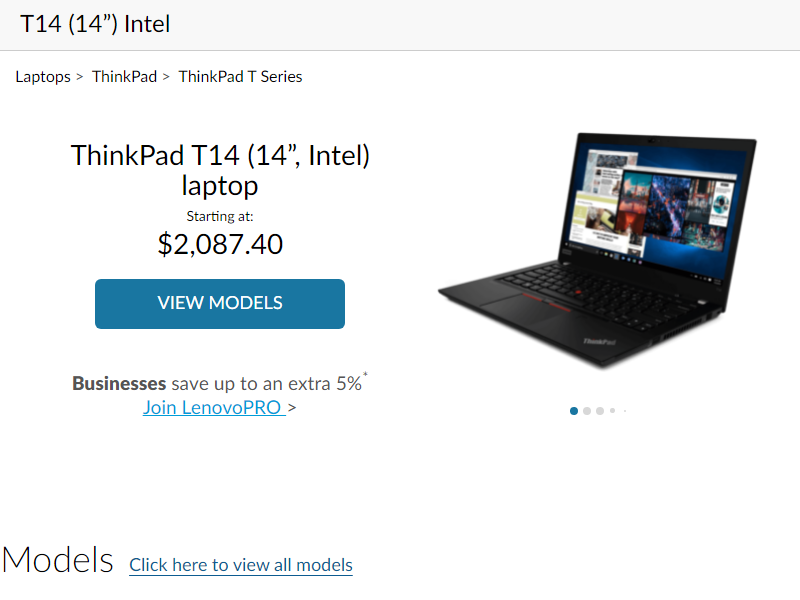
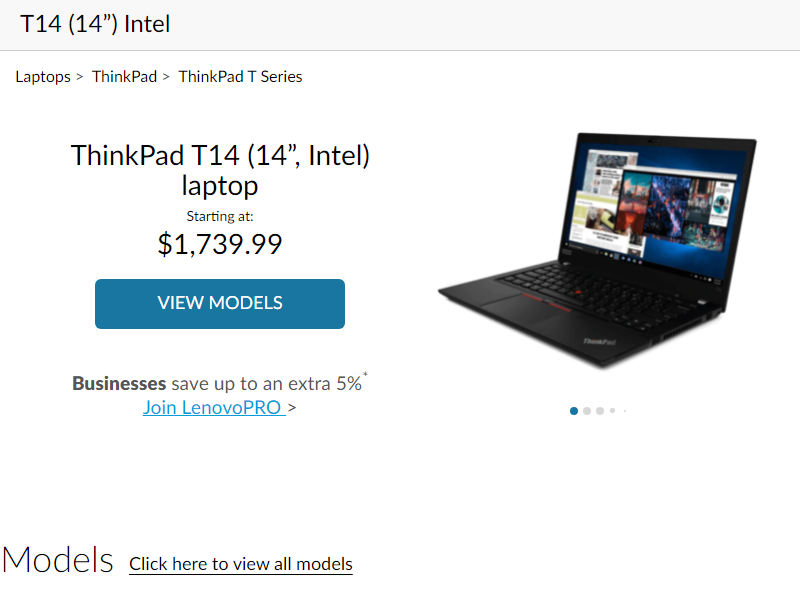
enhanced cron

Changed region(s): [[0.1562, 0.93, 0.4375, 0.96], [0.2188, 0.39, 0.375, 0.42]]

diff --git a/index.js b/index.js
@@ -35,22 +35,115 @@ let value2;
 async function puppet () {
     const browser = await puppeteer.launch();
     const page = await browser.newPage();
-    //await page.goto('https://www.walmart.ca/en/ip/mrnoodles-vegetable-flavoured-instant-noodles/6000153706380');
-    //await page.goto('https://www.instacart.ca/');
-    //await page.type('input[name="nextgen-authenticate.all.postal_code"]', 'N2L3B8') ;
 
-    //await page.click('button[data-var="loginBtn"]');
-    //await page.click('[name="button"]')
-    //document.querySelector("#root > div > div.css-l6ct9h > div.css-1wfm2tp > div.css-8atqhb > form > p > span > button")
-    
-    //let form = await page.$('#root > div > div.css-l6ct9h > div.css-1wfm2tp > div.css-8atqhb > form > p > span > button');
-        // await page.evaluate(() => {
-        //    document.querySelector("#root > div > div.css-l6ct9h > div.css-1wfm2tp > div.css-8atqhb > form > p > span > button").click() 
-        // }
-        // );
-    
+    // //kya80332@eoopy.com
+    // //insta@qwerty123walmart
+    // await page.goto('https://www.instacart.ca/');
+    // //await page.type('input[name="nextgen-authenticate.all.postal_code"]', 'N2L3B8') ;
 
-    //await page.waitForNavigation()
+    // //await page.click('button[data-var="loginBtn"]');
+    // //await page.click('[name="button"]')
+    
+    // const form = await page.$('#root > div > div.css-l6ct9h > div.css-1wfm2tp > div.css-8atqhb > form > p > span > button');
+    // await form.evaluate( form => form.click() );
+
+    // await page.type('input[name="nextgen-authenticate\.all\.log_in_email"]', 'kya80332@eoopy.com') ;
+    // await page.type('input[name="nextgen-authenticate\.all\.log_in_password"]', 'insta@qwerty123walmart') ;
+
+    // const form1 = await page.$('#root > div > div.css-l6ct9h > div.css-1wfm2tp > div.css-8atqhb > form > div:nth-child(6) > button');
+    // //const form1 = await page.$('#root > div > div.css-l6ct9h > div.css-1wfm2tp > div.css-8atqhb > form > div:nth-child(7) > button');
+    // await form1.evaluate( form1 => form1.click() );
+
+
+    // // var time = 0;
+
+    // // const timer =  setInterval(function() {
+    // //     time += 1;
+    // //     console.log(time + " seconds have passed");
+    // //     if (time > 5) {
+    // //         clearInterval(timer);
+    // //     }
+    // // }, 2000);
+    
+     
+    // // await page.waitForNavigation()
+    // //await page._frameManager._mainFrame.waitForNavigation();
+    // await page.screenshot({path: 'test.png'});
+    // await page.goto('https://www.lenovo.com/ca/en/laptops/thinkpad/thinkpad-t-series/ThinkPad-T14-G1/p/20S0004SUS');
+
+    // await page.goto('https://www.lenovo.com/ca/en/laptops/thinkpad/thinkpad-t-series/ThinkPad-T14-G1/p/20S0004SUS');
+    // await page.goto('https://www.lenovo.com/ca/en/laptops/thinkpad/thinkpad-t-series/ThinkPad-T14-G1/p/20S0004SUS');
+    // await page.goto('https://www.lenovo.com/ca/en/laptops/thinkpad/thinkpad-t-series/ThinkPad-T14-G1/p/20S0004SUS');
+    // await page.goto('https://www.lenovo.com/ca/en/laptops/thinkpad/thinkpad-t-series/ThinkPad-T14-G1/p/20S0004SUS');
+    // await page.goto('https://www.lenovo.com/ca/en/laptops/thinkpad/thinkpad-t-series/ThinkPad-T14-G1/p/20S0004SUS');
+    // await page.goto('https://www.lenovo.com/ca/en/laptops/thinkpad/thinkpad-t-series/ThinkPad-T14-G1/p/20S0004SUS');
+    // await page.goto('https://www.lenovo.com/ca/en/laptops/thinkpad/thinkpad-t-series/ThinkPad-T14-G1/p/20S0004SUS');
+    // await page.goto('https://www.lenovo.com/ca/en/laptops/thinkpad/thinkpad-t-series/ThinkPad-T14-G1/p/20S0004SUS');
+    // await page.goto('https://www.lenovo.com/ca/en/laptops/thinkpad/thinkpad-t-series/ThinkPad-T14-G1/p/20S0004SUS');
+    // await page.goto('https://www.lenovo.com/ca/en/laptops/thinkpad/thinkpad-t-series/ThinkPad-T14-G1/p/20S0004SUS');
+    // await page.goto('https://www.lenovo.com/ca/en/laptops/thinkpad/thinkpad-t-series/ThinkPad-T14-G1/p/20S0004SUS');
+    // await page.goto('https://www.lenovo.com/ca/en/laptops/thinkpad/thinkpad-t-series/ThinkPad-T14-G1/p/20S0004SUS');
+    // await page.goto('https://www.lenovo.com/ca/en/laptops/thinkpad/thinkpad-t-series/ThinkPad-T14-G1/p/20S0004SUS');
+    // await page.goto('https://www.lenovo.com/ca/en/laptops/thinkpad/thinkpad-t-series/ThinkPad-T14-G1/p/20S0004SUS');
+    // await page.goto('https://www.lenovo.com/ca/en/laptops/thinkpad/thinkpad-t-series/ThinkPad-T14-G1/p/20S0004SUS');
+    // await page.goto('https://www.lenovo.com/ca/en/laptops/thinkpad/thinkpad-t-series/ThinkPad-T14-G1/p/20S0004SUS');
+    // await page.goto('https://www.lenovo.com/ca/en/laptops/thinkpad/thinkpad-t-series/ThinkPad-T14-G1/p/20S0004SUS');
+    // await page.goto('https://www.lenovo.com/ca/en/laptops/thinkpad/thinkpad-t-series/ThinkPad-T14-G1/p/20S0004SUS');
+    // await page.goto('https://www.lenovo.com/ca/en/laptops/thinkpad/thinkpad-t-series/ThinkPad-T14-G1/p/20S0004SUS');
+    // await page.goto('https://www.lenovo.com/ca/en/laptops/thinkpad/thinkpad-t-series/ThinkPad-T14-G1/p/20S0004SUS');
+    // await page.goto('https://www.lenovo.com/ca/en/laptops/thinkpad/thinkpad-t-series/ThinkPad-T14-G1/p/20S0004SUS');
+    // await page.goto('https://www.lenovo.com/ca/en/laptops/thinkpad/thinkpad-t-series/ThinkPad-T14-G1/p/20S0004SUS');
+    // await page.goto('https://www.lenovo.com/ca/en/laptops/thinkpad/thinkpad-t-series/ThinkPad-T14-G1/p/20S0004SUS');
+    // await page.goto('https://www.lenovo.com/ca/en/laptops/thinkpad/thinkpad-t-series/ThinkPad-T14-G1/p/20S0004SUS');
+    // await page.goto('https://www.lenovo.com/ca/en/laptops/thinkpad/thinkpad-t-series/ThinkPad-T14-G1/p/20S0004SUS');
+    // await page.goto('https://www.lenovo.com/ca/en/laptops/thinkpad/thinkpad-t-series/ThinkPad-T14-G1/p/20S0004SUS');
+    // await page.goto('https://www.lenovo.com/ca/en/laptops/thinkpad/thinkpad-t-series/ThinkPad-T14-G1/p/20S0004SUS');
+    // await page.goto('https://www.lenovo.com/ca/en/laptops/thinkpad/thinkpad-t-series/ThinkPad-T14-G1/p/20S0004SUS');
+    // await page.goto('https://www.lenovo.com/ca/en/laptops/thinkpad/thinkpad-t-series/ThinkPad-T14-G1/p/20S0004SUS');
+    // await page.goto('https://www.lenovo.com/ca/en/laptops/thinkpad/thinkpad-t-series/ThinkPad-T14-G1/p/20S0004SUS');
+    // await page.goto('https://www.lenovo.com/ca/en/laptops/thinkpad/thinkpad-t-series/ThinkPad-T14-G1/p/20S0004SUS');
+    // await page.goto('https://www.lenovo.com/ca/en/laptops/thinkpad/thinkpad-t-series/ThinkPad-T14-G1/p/20S0004SUS');
+    // await page.goto('https://www.lenovo.com/ca/en/laptops/thinkpad/thinkpad-t-series/ThinkPad-T14-G1/p/20S0004SUS');
+    // await page.goto('https://www.lenovo.com/ca/en/laptops/thinkpad/thinkpad-t-series/ThinkPad-T14-G1/p/20S0004SUS');
+    // await page.goto('https://www.lenovo.com/ca/en/laptops/thinkpad/thinkpad-t-series/ThinkPad-T14-G1/p/20S0004SUS');
+    // await page.goto('https://www.lenovo.com/ca/en/laptops/thinkpad/thinkpad-t-series/ThinkPad-T14-G1/p/20S0004SUS');
+    // await page.goto('https://www.lenovo.com/ca/en/laptops/thinkpad/thinkpad-t-series/ThinkPad-T14-G1/p/20S0004SUS');
+    // await page.goto('https://www.lenovo.com/ca/en/laptops/thinkpad/thinkpad-t-series/ThinkPad-T14-G1/p/20S0004SUS');
+    // await page.goto('https://www.lenovo.com/ca/en/laptops/thinkpad/thinkpad-t-series/ThinkPad-T14-G1/p/20S0004SUS');
+    // await page.goto('https://www.lenovo.com/ca/en/laptops/thinkpad/thinkpad-t-series/ThinkPad-T14-G1/p/20S0004SUS');
+    // await page.goto('https://www.lenovo.com/ca/en/laptops/thinkpad/thinkpad-t-series/ThinkPad-T14-G1/p/20S0004SUS');
+    // await page.goto('https://www.lenovo.com/ca/en/laptops/thinkpad/thinkpad-t-series/ThinkPad-T14-G1/p/20S0004SUS');
+    // await page.goto('https://www.lenovo.com/ca/en/laptops/thinkpad/thinkpad-t-series/ThinkPad-T14-G1/p/20S0004SUS');
+    // await page.goto('https://www.lenovo.com/ca/en/laptops/thinkpad/thinkpad-t-series/ThinkPad-T14-G1/p/20S0004SUS');
+    // await page.goto('https://www.lenovo.com/ca/en/laptops/thinkpad/thinkpad-t-series/ThinkPad-T14-G1/p/20S0004SUS');
+    // await page.goto('https://www.lenovo.com/ca/en/laptops/thinkpad/thinkpad-t-series/ThinkPad-T14-G1/p/20S0004SUS');
+    // await page.goto('https://www.lenovo.com/ca/en/laptops/thinkpad/thinkpad-t-series/ThinkPad-T14-G1/p/20S0004SUS');
+    // await page.goto('https://www.lenovo.com/ca/en/laptops/thinkpad/thinkpad-t-series/ThinkPad-T14-G1/p/20S0004SUS');
+    // await page.goto('https://www.lenovo.com/ca/en/laptops/thinkpad/thinkpad-t-series/ThinkPad-T14-G1/p/20S0004SUS');
+    // await page.goto('https://www.lenovo.com/ca/en/laptops/thinkpad/thinkpad-t-series/ThinkPad-T14-G1/p/20S0004SUS');
+    // await page.goto('https://www.lenovo.com/ca/en/laptops/thinkpad/thinkpad-t-series/ThinkPad-T14-G1/p/20S0004SUS');
+    // await page.goto('https://www.lenovo.com/ca/en/laptops/thinkpad/thinkpad-t-series/ThinkPad-T14-G1/p/20S0004SUS');
+    // await page.goto('https://www.lenovo.com/ca/en/laptops/thinkpad/thinkpad-t-series/ThinkPad-T14-G1/p/20S0004SUS');
+    // await page.goto('https://www.lenovo.com/ca/en/laptops/thinkpad/thinkpad-t-series/ThinkPad-T14-G1/p/20S0004SUS');
+    // await page.goto('https://www.lenovo.com/ca/en/laptops/thinkpad/thinkpad-t-series/ThinkPad-T14-G1/p/20S0004SUS');
+    // await page.goto('https://www.lenovo.com/ca/en/laptops/thinkpad/thinkpad-t-series/ThinkPad-T14-G1/p/20S0004SUS');
+    // await page.goto('https://www.lenovo.com/ca/en/laptops/thinkpad/thinkpad-t-series/ThinkPad-T14-G1/p/20S0004SUS');
+    // await page.goto('https://www.lenovo.com/ca/en/laptops/thinkpad/thinkpad-t-series/ThinkPad-T14-G1/p/20S0004SUS');
+    // await page.goto('https://www.lenovo.com/ca/en/laptops/thinkpad/thinkpad-t-series/ThinkPad-T14-G1/p/20S0004SUS');
+    // await page.goto('https://www.lenovo.com/ca/en/laptops/thinkpad/thinkpad-t-series/ThinkPad-T14-G1/p/20S0004SUS');
+    // await page.goto('https://www.lenovo.com/ca/en/laptops/thinkpad/thinkpad-t-series/ThinkPad-T14-G1/p/20S0004SUS');
+    // await page.goto('https://www.lenovo.com/ca/en/laptops/thinkpad/thinkpad-t-series/ThinkPad-T14-G1/p/20S0004SUS');
+    // await page.goto('https://www.lenovo.com/ca/en/laptops/thinkpad/thinkpad-t-series/ThinkPad-T14-G1/p/20S0004SUS');
+    // await page.goto('https://www.lenovo.com/ca/en/laptops/thinkpad/thinkpad-t-series/ThinkPad-T14-G1/p/20S0004SUS');
+    // await page.goto('https://www.lenovo.com/ca/en/laptops/thinkpad/thinkpad-t-series/ThinkPad-T14-G1/p/20S0004SUS');
+    // await page.goto('https://www.lenovo.com/ca/en/laptops/thinkpad/thinkpad-t-series/ThinkPad-T14-G1/p/20S0004SUS');
+
+    // await page.goto('https://www.instacart.ca/store/items/item_792008452');
+    // await page.waitForSelector('#react-views-container > div > div > div:nth-child(1) > div > div > div > div > div:nth-child(1) > div > div.col-md-5.itemModalHeader > div:nth-child(1) > div:nth-child(3) > div > div.item-price > span:nth-child(2)')
+    // element = await page.$('#react-views-container > div > div > div:nth-child(1) > div > div > div > div > div:nth-child(1) > div > div.col-md-5.itemModalHeader > div:nth-child(1) > div:nth-child(3) > div > div.item-price > span:nth-child(2)')
+    // value2 = await page.evaluate(el => el.textContent, element)
+    // console.log("instacart: "+value2)
+    // await page.screenshot({path: 'test1.png'});
 
     await page.goto('https://www.lenovo.com/ca/en/laptops/thinkpad/thinkpad-t-series/ThinkPad-T14-G1/p/20S0004SUS');
     await page.waitForSelector('#longscroll-subseries > div.backgroundColor.subseriesHeader.noeSpot > div.hero-column.hero-column-one > div.cta > div.cta-group-price > dl > dd')
